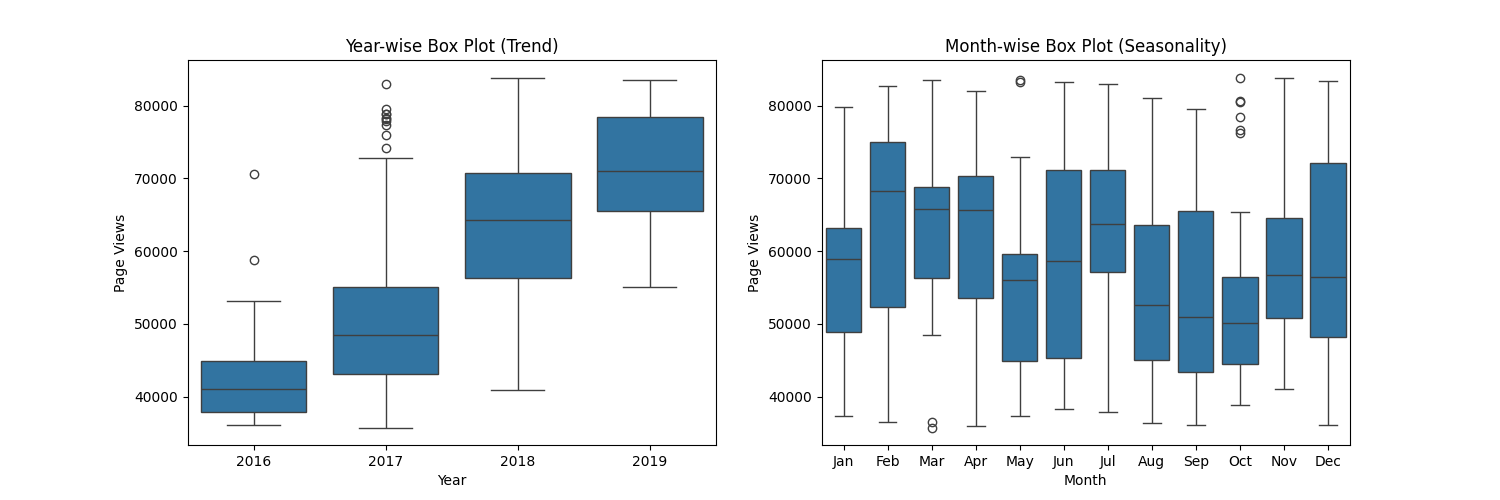
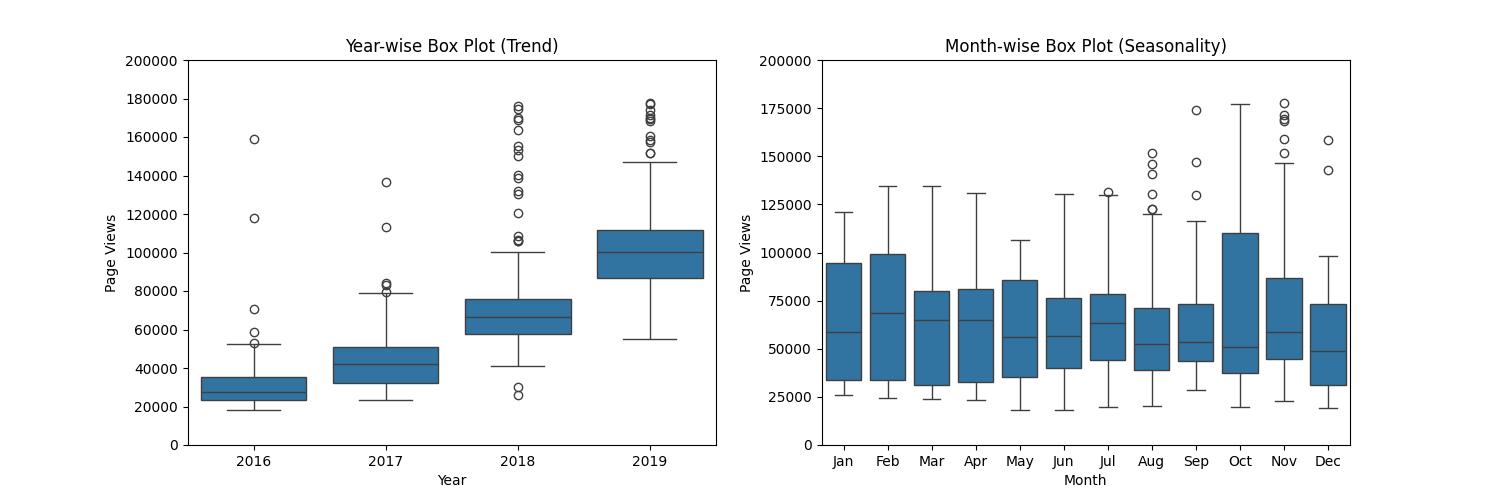
data_analysis\page-view-time-series-visualizer added pivot tablle to barplot and months order list

diff --git a/data_analysis_python/page-view-time-series-visualizer/time_series_visualizer.py b/data_analysis_python/page-view-time-series-visualizer/time_series_visualizer.py
@@ -15,8 +15,8 @@ print(f'1------------\n{df.head()}\n{df.shape}\n-----------')
 # Clean data
 #Filter out days in the top 2.5% and bottom 2.5% of page views.
 df = df[
-    (df['value'] >= df['value'].quantile(0.25)) & 
-    (df['value'] <= df['value'].quantile(0.75))
+    (df['value'] >= df['value'].quantile(0.025)) & 
+    (df['value'] <= df['value'].quantile(0.975))
     ]
 
 print(f'2------------\n{df.head()}\n{df.shape}\n-----------')
@@ -45,26 +45,50 @@ def draw_bar_plot():
     df_bar['month_name'] = df_bar.index.strftime('%B')
 
     # Group by year and month, then calculate mean
-    df_grouped = df_bar.groupby(['year', 'month_name']).mean(numeric_only=True).reset_index()
+    df_grouped = df_bar.groupby(['year', 'month']).mean(numeric_only=True).reset_index()
+    
+    # Create ordered month names
+    month_order = [
+        'January', 
+        'February', 
+        'March', 
+        'April', 
+        'May', 
+        'June', 
+        'July', 
+        'August', 
+        'September', 
+        'October', 
+        'November', 
+        'December'
+    ]
+    month_num_to_name = {i: name for i, name in enumerate(month_order, 1)}
+    df_grouped['month_name'] = df_grouped['month'].map(month_num_to_name)
+    
+    # Sort by year and month for proper ordering
+    df_grouped = df_grouped.sort_values(['year', 'month'])
 
-    # Ensure months are in correct order
-    month_order = ['January', 'February', 'March', 'April', 'May', 'June', 'July', 'August', 'September', 'October', 'November', 'December']
-    df_grouped['month_name'] = pd.Categorical(df_grouped['month_name'], categories=month_order, ordered=True)
-    df_grouped = df_grouped.sort_values(['year', 'month_name'])
+    # Create pivot table with years as index and months as columns (ordered)
+    df_pivot = df_grouped.pivot(index='year', columns='month', values='value')
+    # Ensure columns 1..12 present and ordered
+    df_pivot = df_pivot.reindex(columns=range(1, 13))
+    month_order = [
+        'January', 'February', 'March', 'April', 'May', 'June',
+        'July', 'August', 'September', 'October', 'November', 'December'
+    ]
+    # Rename numeric month columns to names
+    df_pivot.columns = month_order
 
-    # Draw bar plot
-    fig, ax = plt.subplots(figsize=(15,5))
-    sns.barplot(
-        data=df_grouped,
-        x='year',
-        y='value',
-        hue='month_name',
-        hue_order=month_order,
-        ax=ax
-    )
+    # Draw bar plot using pandas' plotting (grouped bars)
+    fig, ax = plt.subplots(figsize=(15, 10))
+    df_pivot.plot(kind='bar', ax=ax)
+
+    # Set labels and formatting
     ax.set_xlabel('Years')
     ax.set_ylabel('Average Page Views')
+    ax.legend(title='Months')
     ax.grid(True)
+
     # Save image and return fig (don't change this part)
     fig.savefig('bar_plot.png')
     return fig
@@ -86,7 +110,20 @@ def draw_box_plot():
         orientation='vertical'
     )
     # Ensure months are in correct order
-    month_order = ['Jan', 'Feb', 'Mar', 'Apr', 'May', 'Jun', 'Jul', 'Aug', 'Sep', 'Oct', 'Nov', 'Dec']
+    month_order = [
+        'Jan', 
+        'Feb', 
+        'Mar', 
+        'Apr', 
+        'May', 
+        'Jun', 
+        'Jul', 
+        'Aug', 
+        'Sep', 
+        'Oct', 
+        'Nov', 
+        'Dec'
+    ]
     sns.boxplot(
         x='month', 
         y='value', 
@@ -98,9 +135,24 @@ def draw_box_plot():
     axes[0].set_title('Year-wise Box Plot (Trend)')
     axes[0].set_xlabel('Year')
     axes[0].set_ylabel('Page Views')
+    axes[0].set_ylim(bottom=0, top=200000)
+    axes[0].set_yticks([
+        0, 
+        20000, 
+        40000, 
+        60000, 
+        80000, 
+        100000,
+        120000, 
+        140000, 
+        160000, 
+        180000, 
+        200000
+    ])
     axes[1].set_title('Month-wise Box Plot (Seasonality)')
     axes[1].set_xlabel('Month')
     axes[1].set_ylabel('Page Views')
+    axes[1].set_ylim(bottom=0, top=200000)
 
     # Save image and return fig (don't change this part)
     fig.savefig('box_plot.png')
